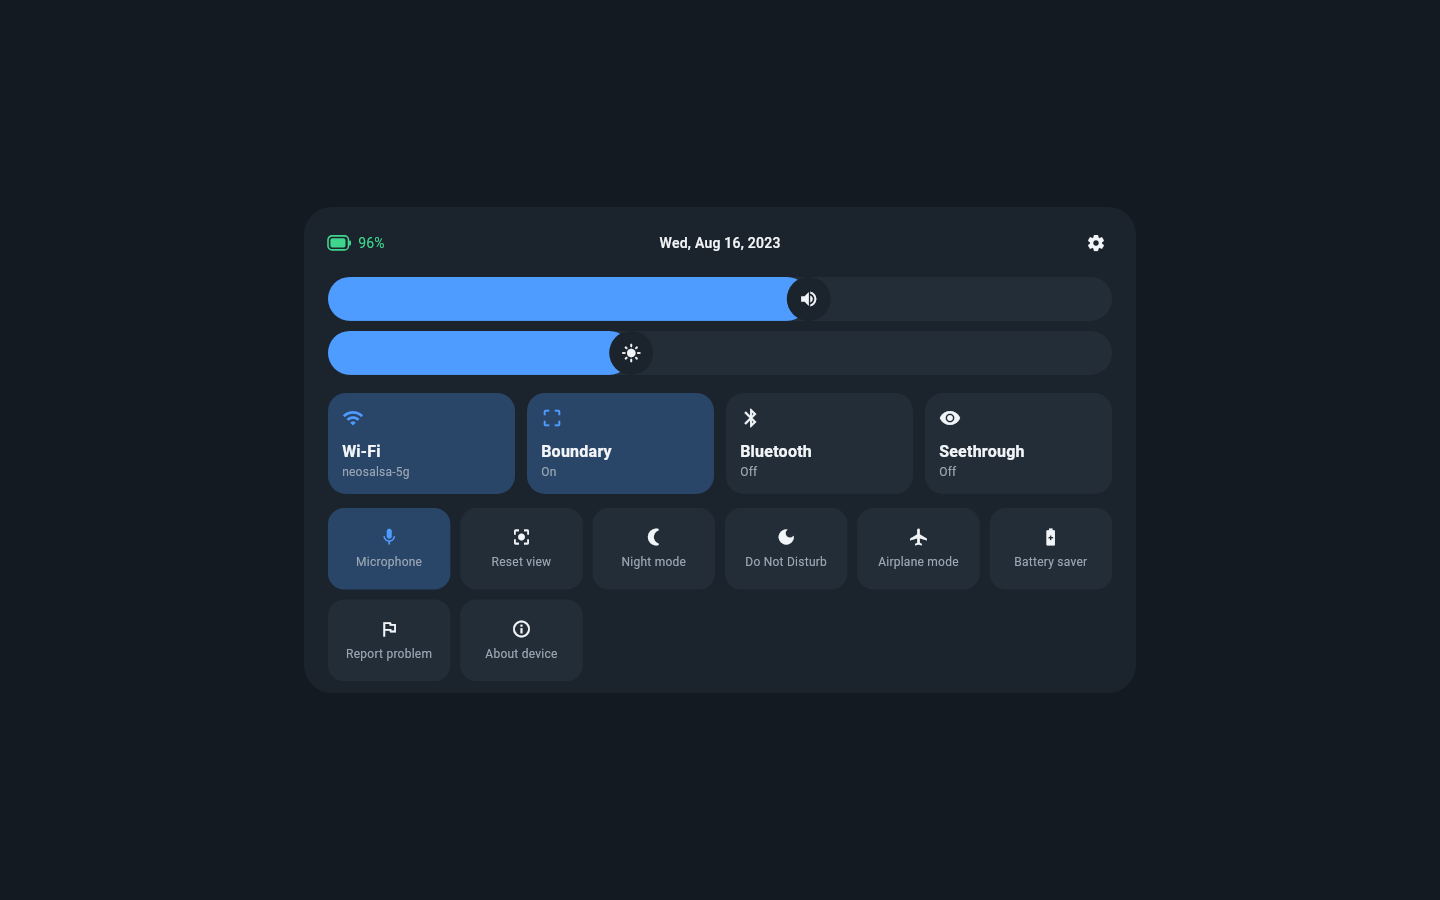
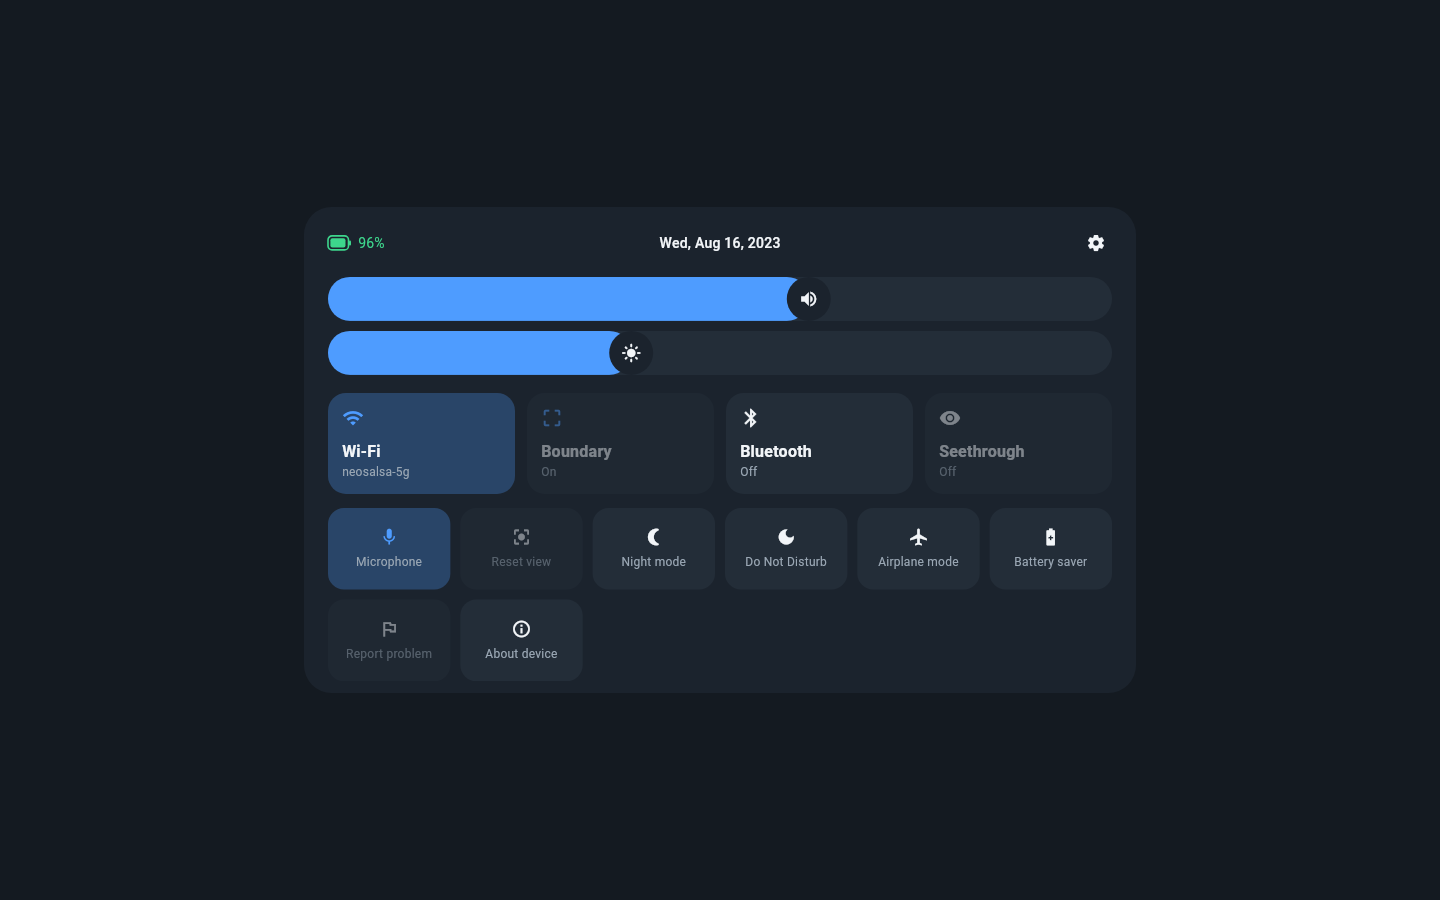
未实现的磁贴置灰不可点

diff --git a/quick-panel/lib/src/catalog.dart b/quick-panel/lib/src/catalog.dart
@@ -8,19 +8,31 @@ enum TileKind { toggle, action }
 /// renders as a large card or a small button. Order in [panelTiles] is
 /// display order.
 class TileSpec {
-  const TileSpec.toggle(this.toggleId, {required this.icon, this.large = false})
-    : kind = TileKind.toggle,
-      actionId = null;
+  const TileSpec.toggle(
+    this.toggleId, {
+    required this.icon,
+    this.large = false,
+    this.implemented = true,
+  }) : kind = TileKind.toggle,
+       actionId = null;
 
-  const TileSpec.action(this.actionId, {required this.icon, this.large = false})
-    : kind = TileKind.action,
-      toggleId = null;
+  const TileSpec.action(
+    this.actionId, {
+    required this.icon,
+    this.large = false,
+    this.implemented = true,
+  }) : kind = TileKind.action,
+       toggleId = null;
 
   final TileKind kind;
   final ToggleId? toggleId;
   final ActionId? actionId;
   final IconData icon;
   final bool large;
+
+  /// False marks a tile whose platform side does not exist yet - it
+  /// renders greyed out and inert until the OS layer catches up.
+  final bool implemented;
 }
 
 /// Panel layout. Large row first, then the small rows - mirrors the
@@ -28,16 +40,34 @@ class TileSpec {
 /// (Quest Link, multi-window, voice commands).
 const panelTiles = <TileSpec>[
   TileSpec.toggle(ToggleId.wifi, icon: Icons.wifi, large: true),
-  TileSpec.toggle(ToggleId.boundary, icon: Icons.crop_free, large: true),
+  TileSpec.toggle(
+    ToggleId.boundary,
+    icon: Icons.crop_free,
+    large: true,
+    implemented: false,
+  ),
   TileSpec.toggle(ToggleId.bluetooth, icon: Icons.bluetooth, large: true),
-  TileSpec.toggle(ToggleId.seethrough, icon: Icons.visibility, large: true),
+  TileSpec.toggle(
+    ToggleId.seethrough,
+    icon: Icons.visibility,
+    large: true,
+    implemented: false,
+  ),
   TileSpec.toggle(ToggleId.microphone, icon: Icons.mic),
-  TileSpec.action(ActionId.resetView, icon: Icons.center_focus_strong),
+  TileSpec.action(
+    ActionId.resetView,
+    icon: Icons.center_focus_strong,
+    implemented: false,
+  ),
   TileSpec.toggle(ToggleId.nightMode, icon: Icons.nightlight_round),
   TileSpec.toggle(ToggleId.doNotDisturb, icon: Icons.dark_mode),
   TileSpec.toggle(ToggleId.airplaneMode, icon: Icons.airplanemode_active),
   TileSpec.toggle(ToggleId.batterySaver, icon: Icons.battery_saver),
-  TileSpec.action(ActionId.reportProblem, icon: Icons.flag_outlined),
+  TileSpec.action(
+    ActionId.reportProblem,
+    icon: Icons.flag_outlined,
+    implemented: false,
+  ),
   TileSpec.action(ActionId.aboutDevice, icon: Icons.info_outline),
 ];
 

diff --git a/quick-panel/test/interactions_test.dart b/quick-panel/test/interactions_test.dart
@@ -46,9 +46,9 @@ void main() {
     await tester.pumpWidget(QuickSettingsApp(controller: c));
     await tester.pumpAndSettle();
 
-    await tester.tap(find.text('Reset view'));
+    await tester.tap(find.text('About device'));
     await tester.pump();
-    expect(src.actionsPerformed, [ActionId.resetView]);
+    expect(src.actionsPerformed, [ActionId.aboutDevice]);
   });
 
   testWidgets('gear button dispatches openSettings', (tester) async {
@@ -111,10 +111,35 @@ void main() {
     await tester.pumpWidget(QuickSettingsApp(controller: c));
     await tester.pumpAndSettle();
 
-    // first large tile is autofocused; move right and activate
+    // first large tile is autofocused; arrow right skips the greyed-out
+    // Boundary tile and lands on Bluetooth
     await tester.sendKeyEvent(LogicalKeyboardKey.arrowRight);
     await tester.sendKeyEvent(LogicalKeyboardKey.enter);
     await tester.pump();
-    expect(src.togglesRequested, [(ToggleId.boundary, true)]);
+    expect(src.togglesRequested, [(ToggleId.bluetooth, true)]);
+  });
+
+  testWidgets('greyed-out tiles are inert', (tester) async {
+    tester.view.physicalSize = const Size(1200, 900);
+    tester.view.devicePixelRatio = 1.0;
+    addTearDown(tester.view.reset);
+
+    final src = FakeSettingsSource();
+    final c = SettingsController(
+      source: src,
+      persistence: MemoryPersistence(),
+    );
+    addTearDown(c.dispose);
+    await c.start();
+    await tester.pumpWidget(QuickSettingsApp(controller: c));
+    await tester.pumpAndSettle();
+
+    await tester.tap(find.text('Seethrough'));
+    await tester.tap(find.text('Reset view'));
+    await tester.tap(find.text('Report problem'));
+    await tester.pump();
+    expect(src.togglesRequested, isEmpty);
+    expect(src.actionsPerformed, isEmpty);
+    expect(c.store.isOn(ToggleId.seethrough), isFalse);
   });
 }

diff --git a/quick-panel/lib/src/ui/tiles.dart b/quick-panel/lib/src/ui/tiles.dart
@@ -42,6 +42,22 @@ class _SettingTileState extends State<SettingTile> {
     final radius = spec.large
         ? PanelTheme.tileRadius
         : PanelTheme.smallTileRadius;
+    final content = Padding(
+      padding: EdgeInsets.all(spec.large ? 14 : 8),
+      child: spec.large
+          ? _large(label, iconColor, l10n)
+          : _small(label, iconColor),
+    );
+
+    // Unimplemented tiles grey out, take no taps and drop out of d-pad
+    // traversal.
+    if (!spec.implemented) {
+      return Material(
+        color: PanelTheme.surface.withValues(alpha: 0.5),
+        borderRadius: BorderRadius.circular(radius),
+        child: Opacity(opacity: 0.45, child: content),
+      );
+    }
 
     return FocusableActionDetector(
       autofocus: widget.autofocus,
@@ -67,10 +83,7 @@ class _SettingTileState extends State<SettingTile> {
                   ? Border.all(color: PanelTheme.accent, width: 2)
                   : null,
             ),
-            padding: EdgeInsets.all(spec.large ? 14 : 8),
-            child: spec.large
-                ? _large(label, iconColor, l10n)
-                : _small(label, iconColor),
+            child: content,
           ),
         ),
       ),

diff --git a/quick-panel/test/models_test.dart b/quick-panel/test/models_test.dart
@@ -49,4 +49,14 @@ void main() {
     expect(smallTiles, hasLength(8));
     expect(panelTiles, [...largeTiles, ...smallTiles]);
   });
+
+  test('unimplemented tiles are flagged', () {
+    final off = panelTiles.where((t) => !t.implemented);
+    expect(off.map((t) => t.toggleId ?? t.actionId), [
+      ToggleId.boundary,
+      ToggleId.seethrough,
+      ActionId.resetView,
+      ActionId.reportProblem,
+    ]);
+  });
 }

diff --git a/quick-panel/README.md b/quick-panel/README.md
@@ -23,6 +23,7 @@ window, but works as a normal activity anywhere.
   open the matching system panel instead
 - Pico-side toggles (seethrough, boundary) broadcast a seam intent for
   the OS layer to catch
+- Tiles without a platform implementation yet are greyed out and inert
 - D-pad/controller navigation: arrows move focus, confirm activates
 - All UI strings in ARB files, ready for localization
 
